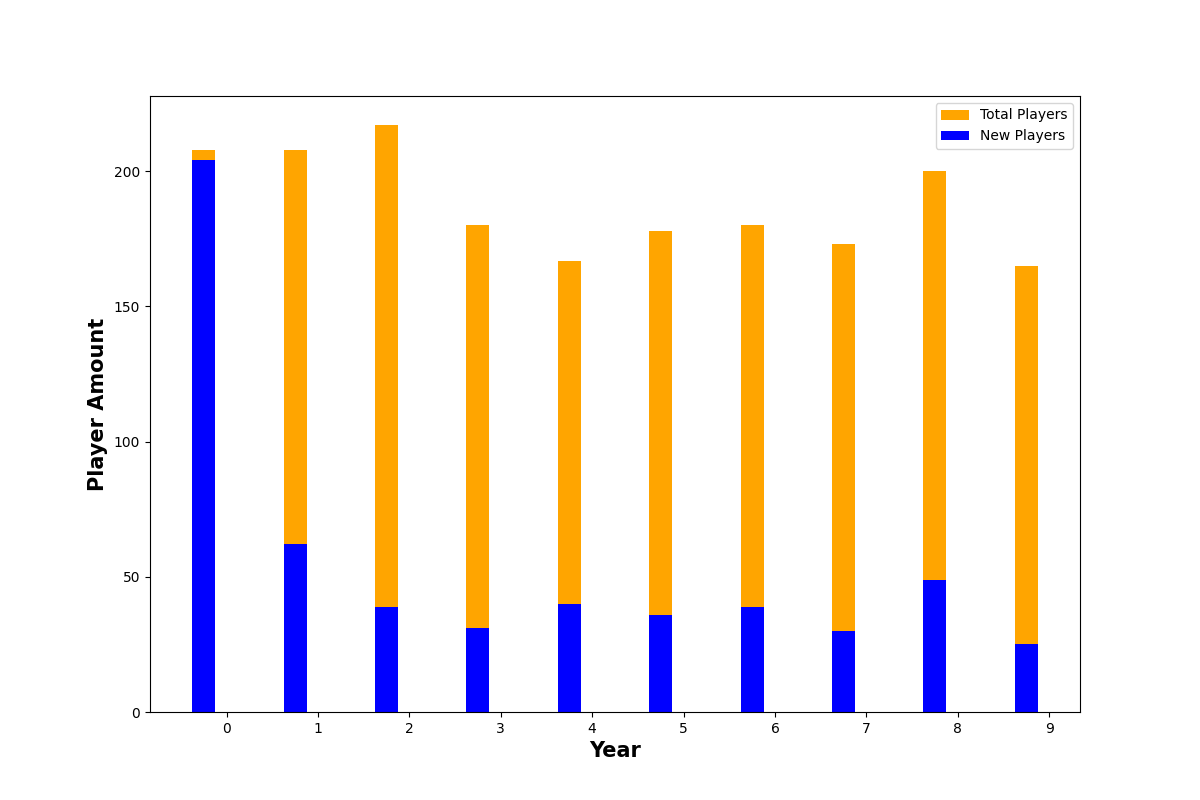
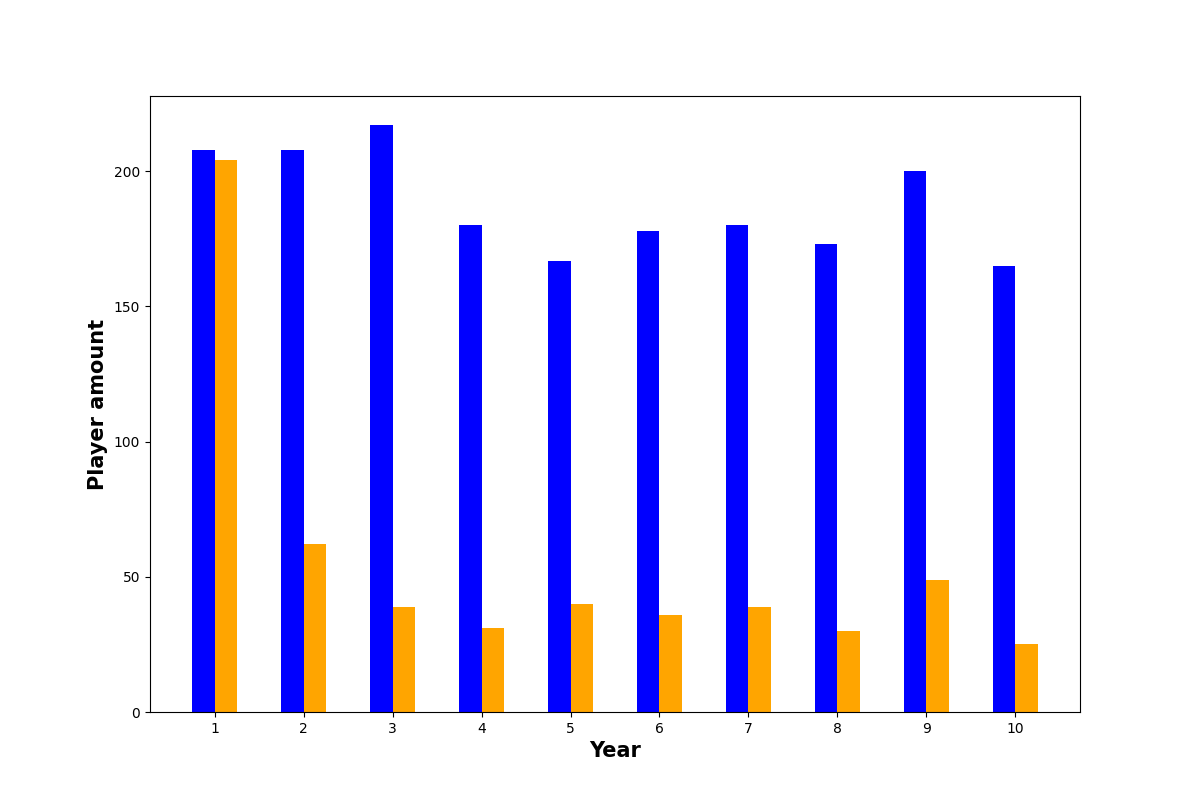
try gradient boost

diff --git a/src/data_prep.py b/src/data_prep.py
@@ -12,10 +12,13 @@ def lag_playoffs(teams_df: pd.DataFrame):
     return teams_df_grouped
 
 def prepare_expanding_average(teams_df: pd.DataFrame) -> pd.DataFrame:
-    teams_df[["o_fgm","o_fga","o_ftm","o_fta","o_3pm","o_3pa","o_oreb","o_dreb","o_reb","o_asts","o_pf","o_stl","o_to","o_blk","o_pts","d_fgm","d_fga","d_ftm","d_fta","d_3pm","d_3pa","d_oreb","d_dreb","d_reb","d_asts","d_pf","d_stl","d_to","d_blk","d_pts","tmORB","tmDRB","tmTRB","opptmORB","opptmDRB","opptmTRB","won","lost","GP","homeW","homeL","awayW","awayL","confW","confL","min","attend"]] = teams_df.sort_values('year').groupby(by=['tmID'])[["o_fgm","o_fga","o_ftm","o_fta","o_3pm","o_3pa","o_oreb","o_dreb","o_reb","o_asts","o_pf","o_stl","o_to","o_blk","o_pts","d_fgm","d_fga","d_ftm","d_fta","d_3pm","d_3pa","d_oreb","d_dreb","d_reb","d_asts","d_pf","d_stl","d_to","d_blk","d_pts","tmORB","tmDRB","tmTRB","opptmORB","opptmDRB","opptmTRB","won","lost","GP","homeW","homeL","awayW","awayL","confW","confL","min","attend"]]\
-        .expanding().mean().reset_index()[["o_fgm","o_fga","o_ftm","o_fta","o_3pm","o_3pa","o_oreb","o_dreb","o_reb","o_asts","o_pf","o_stl","o_to","o_blk","o_pts","d_fgm","d_fga","d_ftm","d_fta","d_3pm","d_3pa","d_oreb","d_dreb","d_reb","d_asts","d_pf","d_stl","d_to","d_blk","d_pts","tmORB","tmDRB","tmTRB","opptmORB","opptmDRB","opptmTRB","won","lost","GP","homeW","homeL","awayW","awayL","confW","confL","min","attend"]]
+    stats = ["o_fgm","o_fga","o_ftm","o_fta","o_3pm","o_3pa","o_oreb","o_dreb","o_reb","o_asts","o_pf","o_stl","o_to","o_blk","o_pts","d_fgm","d_fga","d_ftm","d_fta","d_3pm","d_3pa","d_oreb","d_dreb","d_reb","d_asts","d_pf","d_stl","d_to","d_blk","d_pts","tmORB","tmDRB","tmTRB","opptmORB","opptmDRB","opptmTRB","won","lost","GP","homeW","homeL","awayW","awayL","confW","confL","min","attend"]
+    teams_df[stats] = teams_df.sort_values('year').groupby(by=['tmID'])[stats]\
+        .expanding().mean().reset_index()[stats]
     
-    teams_df["playoff"] = teams_df.groupby('tmID')['playoff'].shift(periods=-1)
+    teams_df[stats] = teams_df.groupby('tmID')[stats].shift(periods=1)
+    stats.extend(["tmID", "year"])
+    teams_df = teams_df[stats]
 
     return teams_df
 
@@ -59,22 +62,28 @@ def prepare_global_model():
     awards_df = pd.read_csv("../data/awards_players.csv")
     players_teams_df = pd.read_csv("../data/players_teams.csv")
     coaches_df = pd.read_csv("../data/coaches.csv")
+    ewm = prepare_expanding_average(teams_df)
 
-    teams_df = drop_forbidden_columns(prepare_expanding_average(teams_df))
-    teams_df = teams_df[teams_df["playoff"].notnull()]
+    #teams_df = lag_playoffs(teams_df)
+    teams_df = drop_team_info(teams_df)
 
     players_teams_df = merge_awards(players_teams_df, awards_df)
     players_teams_df = calculate_player_prev_stats(players_teams_df)
 
+    coaches_df = calculate_coach_prev_stats(coaches_df)
+
     teams_df = calculate_team_players_average(teams_df, players_teams_df)
     teams_df = calculate_team_coaches_average(teams_df, coaches_df)
-    
     teams_df = transform_pl_ch_stats_in_ratio(teams_df)
-    teams_df = transform_team_stats_in_ratio(teams_df)
-    
-    teams_df = drop_string_columns(teams_df)
+    #print(teams_df)
+    print(list(ewm))
+    #ewm = ewm.drop(columns=["playoff"])
+    teams_df = teams_df.merge(ewm, how="inner", on=["tmID", "year"], validate="1:1")
+    teams_df.to_csv("wewo.csv")
 
-    #teams_df.to_csv("wewo.csv")
+    teams_df = teams_df.drop(columns="tmID")
+
+    teams_df = teams_df[teams_df["year"] > 1]
 
     return teams_df
 

diff --git a/src/new_players.py b/src/new_players.py
@@ -6,34 +6,38 @@ barwidth = 0.25
 plt.subplots(figsize =(12, 8))
 
 def new_players_per_year(players_teams_df: pd.DataFrame) -> pd.DataFrame:
-    #known_players = set()
+    known_players = set()
     new_players_l = []
     total_players_l = []
 
     for year in range(1, 11):
         new_players = 0
         total_players = 0
-        known_players = set()
+        #known_players = set()
         filtered_df = players_teams_df[players_teams_df["year"] == year]
         for index, row in filtered_df.iterrows():
             total_players += 1
             if row["playerID"] not in known_players:
                 known_players.add(row["playerID"])
                 new_players = new_players+1
-        new_players_l.append(new_players_l)
-        total_players_l.append(total_players_l)
+        new_players_l.append(new_players)
+        total_players_l.append(total_players)
         print(f"{new_players} new players in year {year}")
 
     br1 = np.arange(len(new_players_l))  
-    br2 = [x + barwidth for x in br1]
+    br2 = [x + barwidth/2 for x in br1]
+    br3 = [x - barwidth/2 for x in br1]
 
     print("helo")
-    plt.bar(br1, total_players_l, color ='b', width = barwidth, 
-        edgecolor ='grey', label ='Total Players') 
+    plt.bar(br3, total_players_l, color ='b', width = barwidth, 
+        label ='Total Players') 
     print("helo2")
-    plt.bar(br2, new_players_l, color ='o', width = barwidth, 
-        edgecolor ='grey', label ='New Players')  
-    plt.show()
+    plt.bar(br2, new_players_l, color ='orange', width = barwidth, 
+        label ='New Players')  
+    plt.xlabel('Year', fontweight ='bold', fontsize = 15) 
+    plt.ylabel('Player amount', fontweight ='bold', fontsize = 15) 
+    plt.xticks(range(len(new_players_l)), 
+        list(map(lambda x: x+1, br1)))
     plt.savefig("newplayers.png")
     plt.close()
 

diff --git a/src/models.py b/src/models.py
@@ -2,6 +2,7 @@ from data_prep import *
 
 from sklearn.metrics import accuracy_score, make_scorer
 from sklearn.ensemble import RandomForestClassifier
+from sklearn.ensemble import GradientBoostingClassifier
 from sklearn.model_selection import train_test_split
 from sklearn.model_selection import GridSearchCV
 from sklearn.tree import DecisionTreeClassifier
@@ -130,8 +131,12 @@ def player_values_model_gs():
         'min_samples_leaf': [1, 2],
         'bootstrap': [True, False]
     }
+    grad_grid = {
+        'learning_rate': [0.001, 0.005, 0.01, 0.05, 0.1, 0.5],
+        'max_leaf_nodes': [20,30,40],
+    }
 
-    rf = RandomForestClassifier()
+    rf = GradientBoostingClassifier()
     grid_search = GridSearchCV(estimator=rf, param_grid=param_grid, cv=5, n_jobs=-1, verbose=3, scoring="roc_auc")
     grid_search.fit(X_train, y_train)
 
@@ -144,6 +149,7 @@ def player_values_model_gs():
 
 def player_values_model_rf_custom_metric():
     df = prepare_model_data_players_rf()
+    #df = prepare_global_model()
     df['playoff'] = df['playoff'].map({'N':0,'Y':1})
 
     param_grid = {

diff --git a/src/main.py b/src/main.py
@@ -6,7 +6,7 @@ def main():
     #team_values_model_gs()
     #team_values_model_rf() # Accuracy: 0.64
 
-    player_values_model_gs() # Accuracy: 0.5454545
+    #player_values_model_gs() # Accuracy: 0.5454545
     player_values_model_rf_custom_metric()
 
     #global_model_rf() # Accuracy: 0.5454545
